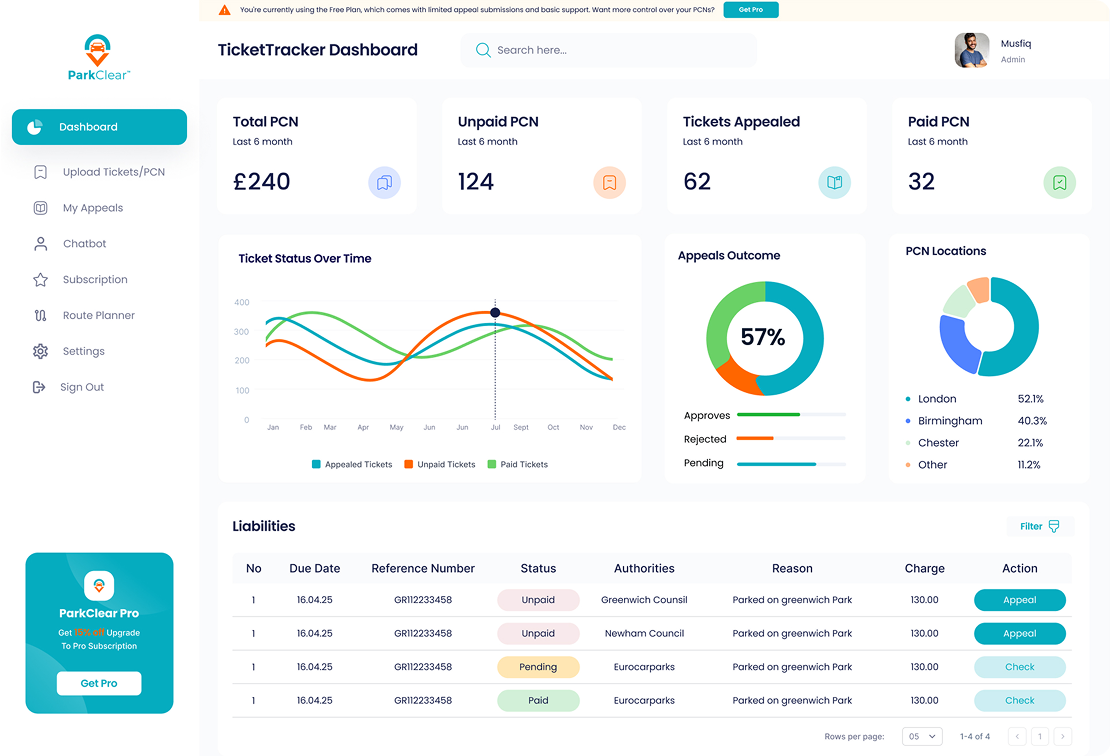
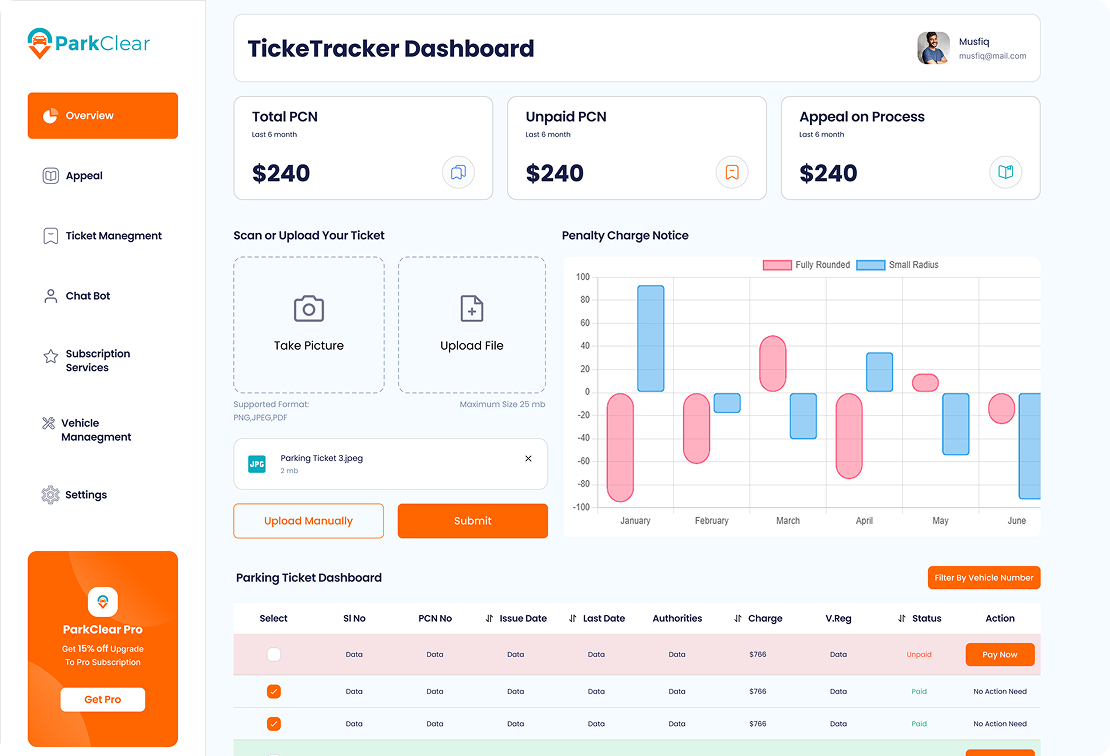
done

diff --git a/src/components/homepage/whyUseSection/DashboardImage.jsx b/src/components/homepage/whyUseSection/DashboardImage.jsx
@@ -3,12 +3,12 @@ import dashboardImage from "../../../assets/images/dashboard.png";
 const DashboardImage = () => {
   return (
     <div
-      className="h-[350px] md:h-[500px] xl:h-[820px] overflow-hidden mt-6 rounded-[16px]"
+      className="h-[350px] md:h-[500px] xl:h-[870px] overflow-hidden mt-6 rounded-[16px] border"
       data-aos="fade-in"
       data-aos-delay="100"
     >
       <img
-        className="h-full w-full"
+        className="h-full w-full rounded-[16px]"
         src={dashboardImage}
         alt="dashboardImage"
       />

diff --git a/src/layout/DashboardLayout.jsx b/src/layout/DashboardLayout.jsx
@@ -43,7 +43,7 @@ const DashboardLayout = () => {
   return (
     <section className="h-screen flex flex-col">
       {/* Header */}
-      <header className="2xl:hidden py-1 px-5 md:px-10 border-b fixed h-[70px] xl:h-[80px] w-full left-0 top-0 z-50">
+      <header className="2xl:hidden py-1 px-5 md:px-10 border-b fixed h-[70px] xl:h-[80px] w-full left-0 top-0 z-50 bg-white">
         <nav className="w-full h-full flex justify-between items-center">
           {/* Logo */}
           <Link to="/">

diff --git a/index.html b/index.html
@@ -2,7 +2,7 @@
 <html lang="en">
   <head>
     <meta charset="UTF-8" />
-    <link rel="shortcut icon" href="./src/assets/logo/logo.svg" type="image/x-icon">
+    <link rel="shortcut icon" href="./src/assets/images/favicon.png" type="image/x-icon">
     <meta name="viewport" content="width=device-width, initial-scale=1.0" />
     <title>Park Clear</title>
   </head>
